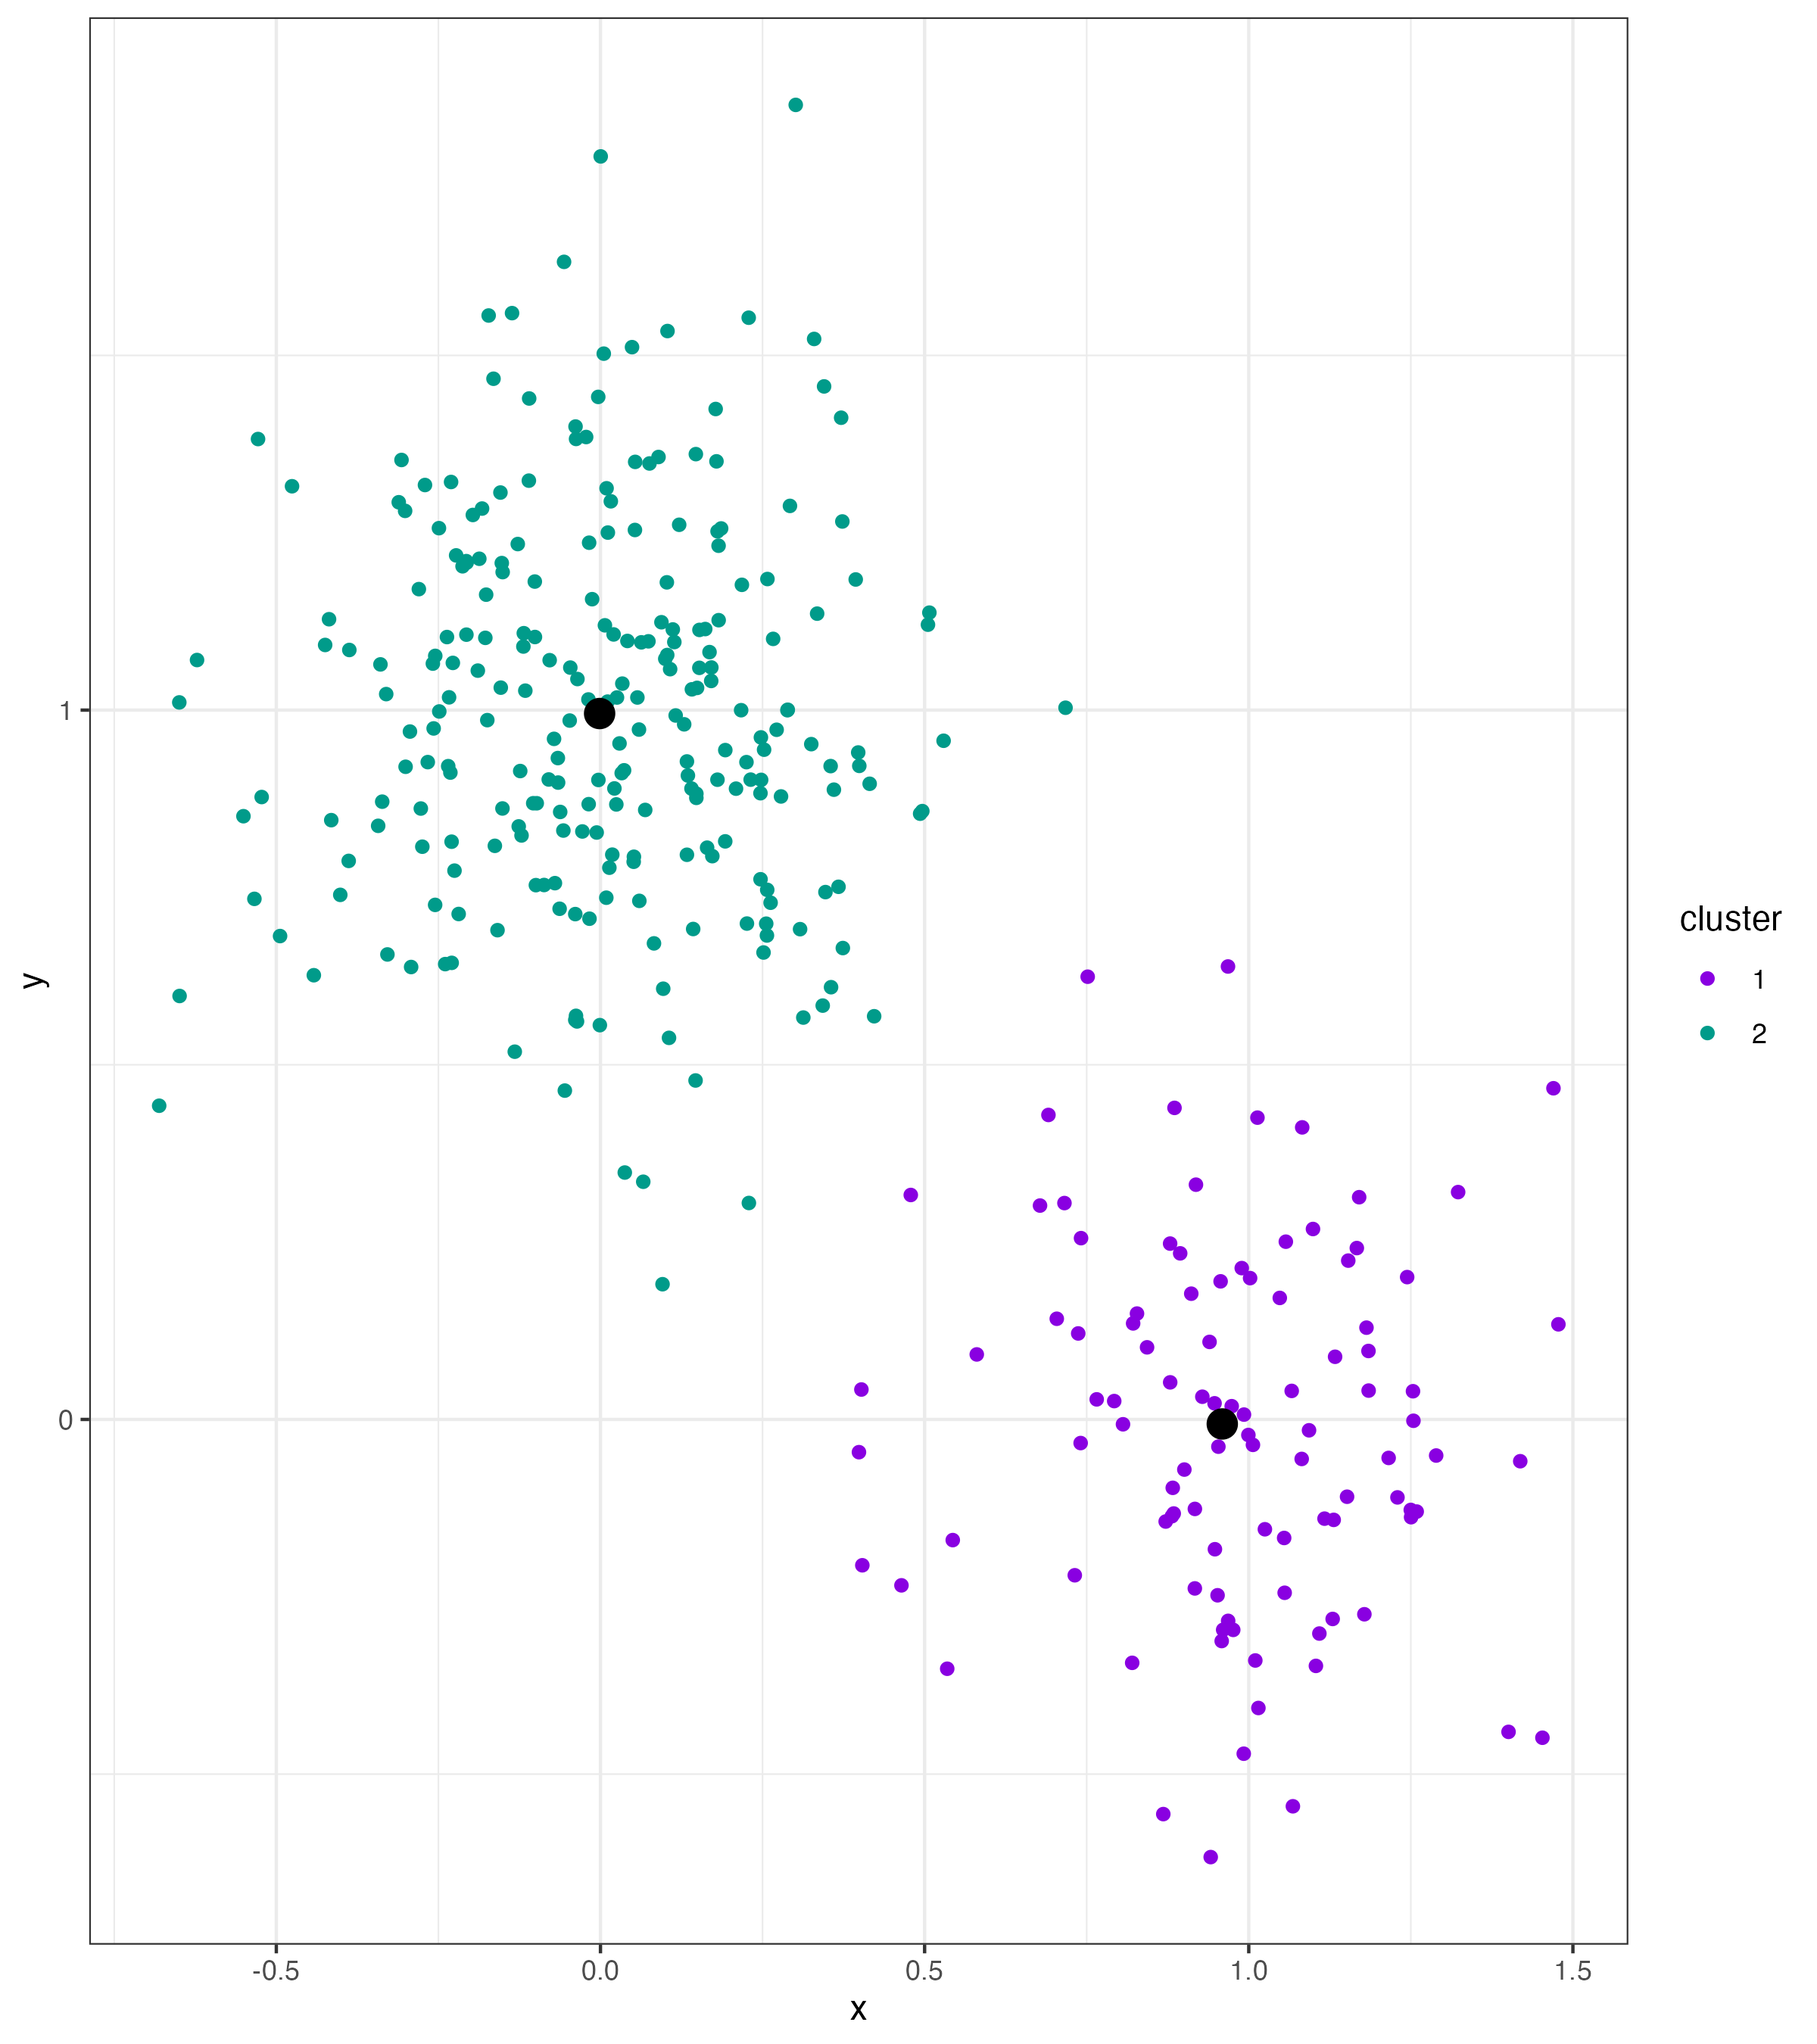
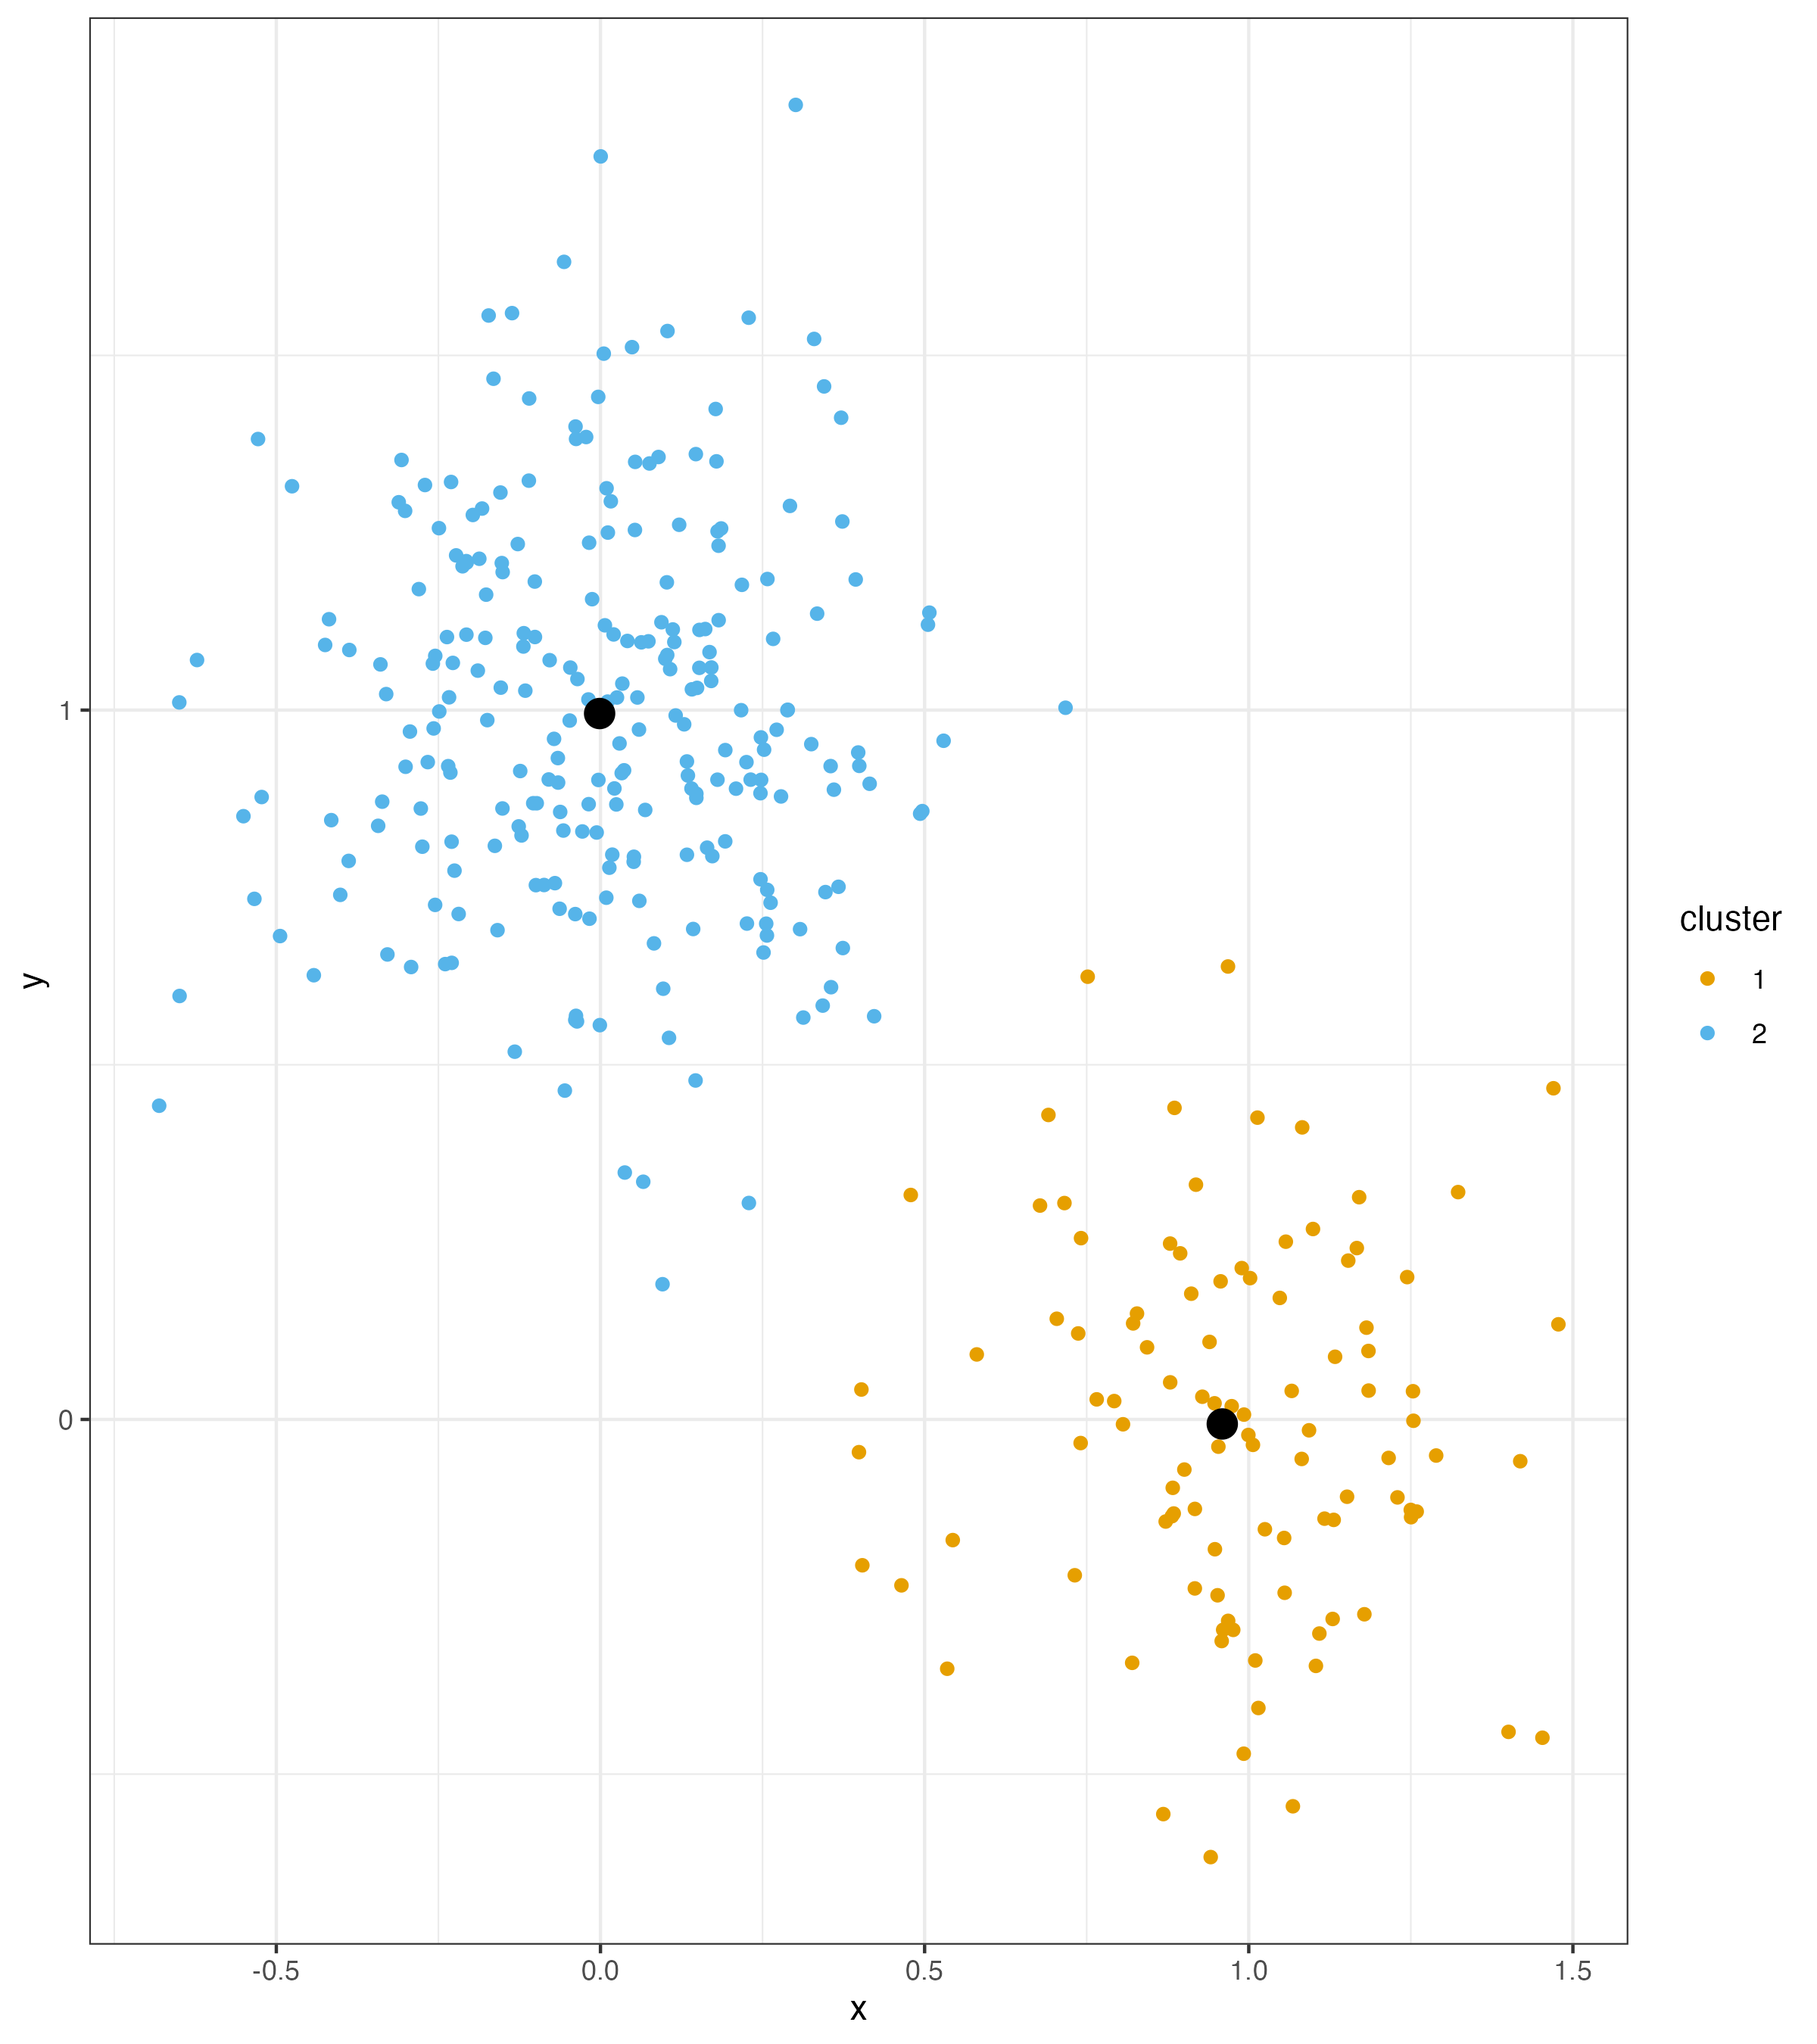
update colors to okabe-ito palette

diff --git a/slides/statcomp-lect-04/pages/04-k-means.md b/slides/statcomp-lect-04/pages/04-k-means.md
@@ -76,8 +76,7 @@ image: /k-means-true-labels.png
 ```r
 ggplot(d, aes(x=x, y=y, color=cluster)) +
   geom_point() +
-  scale_color_manual(values=c('B'='#8900e1',
-                              'A'='#009b8a')) +
+  scale_color_okabeito() +
   theme_bw()
 ```
 
@@ -199,8 +198,7 @@ ggplot(d,
              color="black", 
              size=4) +
   labs(color='cluster') +
-  scale_color_manual(values=c('1'='#8900e1',
-                              '2'='#009b8a')) +
+  scale_color_okabeito() +
   theme_bw()
 ```
 
@@ -230,8 +228,7 @@ ggplot(d,
              color="black", 
              size=4) +
   labs(color='cluster') +
-  scale_color_manual(values=c('1'='#8900e1',
-                              '2'='#009b8a')) +
+  scale_color_okabeito() +
   theme_bw()
 ```
 
@@ -260,8 +257,7 @@ ggplot(d,
              color="black", 
              size=4) +
   labs(color='cluster') +
-  scale_color_manual(values=c('1'='#8900e1',
-                              '2'='#009b8a')) +
+  scale_color_okabeito() +
   theme_bw()
 ```
 
@@ -291,8 +287,7 @@ ggplot(d,
              color="black", 
              size=4) +
   labs(color='cluster') +
-  scale_color_manual(values=c('1'='#8900e1',
-                              '2'='#009b8a')) +
+  scale_color_okabeito() +
   theme_bw()
 ```
 
@@ -320,8 +315,7 @@ ggplot(d,
              color="black", 
              size=4) +
   labs(color='cluster') +
-  scale_color_manual(values=c('1'='#8900e1',
-                              '2'='#009b8a')) +
+  scale_color_okabeito() +
   theme_bw()
 ```
 
@@ -351,8 +345,7 @@ ggplot(d,
              color="black", 
              size=4) +
   labs(color='cluster') +
-  scale_color_manual(values=c('1'='#8900e1',
-                              '2'='#009b8a')) +
+  scale_color_okabeito() +
   theme_bw()
 ```
 
@@ -380,8 +373,7 @@ ggplot(d,
              color="black", 
              size=4) +
   labs(color='cluster') +
-  scale_color_manual(values=c('1'='#8900e1',
-                              '2'='#009b8a')) +
+  scale_color_okabeito() +
   theme_bw()
 ```
 
@@ -411,8 +403,7 @@ ggplot(d,
              color="black", 
              size=4) +
   labs(color='cluster') +
-  scale_color_manual(values=c('1'='#8900e1',
-                              '2'='#009b8a')) +
+  scale_color_okabeito() +
   theme_bw()
 ```
 
@@ -440,8 +431,7 @@ ggplot(d,
              color="black", 
              size=4) +
   labs(color='cluster') +
-  scale_color_manual(values=c('1'='#8900e1',
-                              '2'='#009b8a')) +
+  scale_color_okabeito() +
   theme_bw()
 ```
 
@@ -471,9 +461,8 @@ ggplot(d,
              color="black", 
              size=4) +
   labs(color='cluster') +
-  scale_color_manual(values=c('1'='#8900e1',
-                              '2'='#009b8a')) +
-  theme_bw()
+  scale_color_okabeito() +
+ theme_bw()
 ```
 
 ---
@@ -500,9 +489,8 @@ ggplot(d,
              color="black", 
              size=4) +
   labs(color='cluster') +
-  scale_color_manual(values=c('1'='#8900e1',
-                              '2'='#009b8a')) +
-  theme_bw()
+  scale_color_okabeito() +
+ theme_bw()
 ```
 
 
@@ -531,8 +519,7 @@ ggplot(d,
              color="black", 
              size=4) +
   labs(color='cluster') +
-  scale_color_manual(values=c('1'='#8900e1',
-                              '2'='#009b8a')) +
+  scale_color_okabeito() +
   theme_bw()
 ```
 
@@ -553,7 +540,6 @@ ggplot(d, aes(x=x, y=y, color=cluster)) +
              color="black", 
              size=4) +
   labs(color='cluster') +
-  scale_color_manual(values=c('B'='#8900e1', 
-                              'A'='#009b8a')) +
+  scale_color_okabeito() +
   theme_bw()
 ```

diff --git a/slides/statcomp-lect-04/pages/05-k-means-gen.md b/slides/statcomp-lect-04/pages/05-k-means-gen.md
@@ -318,10 +318,10 @@ image: /k-means-new-data.png
 set.seed(8675309)
 
 # New data, same solution but larger variance
-d <- data.frame(x = c(rnorm(250, 0, 0.5), 
-                      rnorm(100, 1, 0.5)),
-                y = c(rnorm(250, 1, 0.5), 
-                      rnorm(100, 0, 0.5)))
+d <- data.frame(x = c(rnorm(250, 0, 0.35), 
+                      rnorm(100, 1, 0.35)),
+                y = c(rnorm(250, 1, 0.35), 
+                      rnorm(100, 0, 0.35)))
 
 # shuffle to destroy any "known" solution
 d <- d[sample(1:nrow(d)),]
@@ -438,5 +438,6 @@ ggplot(d, aes(x=x,
   geom_point(data=centroids, aes(x=x, y=y), 
              color="black", size=4) +
   labs(color='cluster') +
+  scale_color_okabeito() +
   theme_bw()
 ```

diff --git a/slides/statcomp-lect-04/pages/06-k-means-eval.md b/slides/statcomp-lect-04/pages/06-k-means-eval.md
@@ -38,6 +38,7 @@ ggplot(d, aes(x=x,
   geom_point(data=centroids, aes(x=x, y=y), 
              color="black", size=4) +
   labs(color='cluster') +
+  scale_color_okabeito() +
   theme_bw()
 ```
 
@@ -81,6 +82,7 @@ ggplot(d, aes(x=x,
   geom_point(data=centroids, aes(x=x, y=y), 
              color="black", size=4) +
   labs(color='cluster') +
+  scale_color_okabeito() +
   theme_bw()
 ```
 
